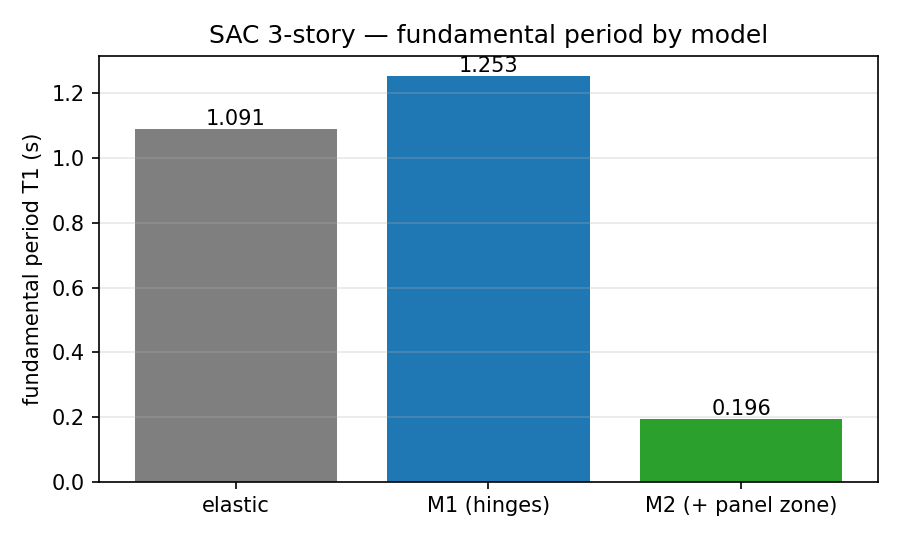
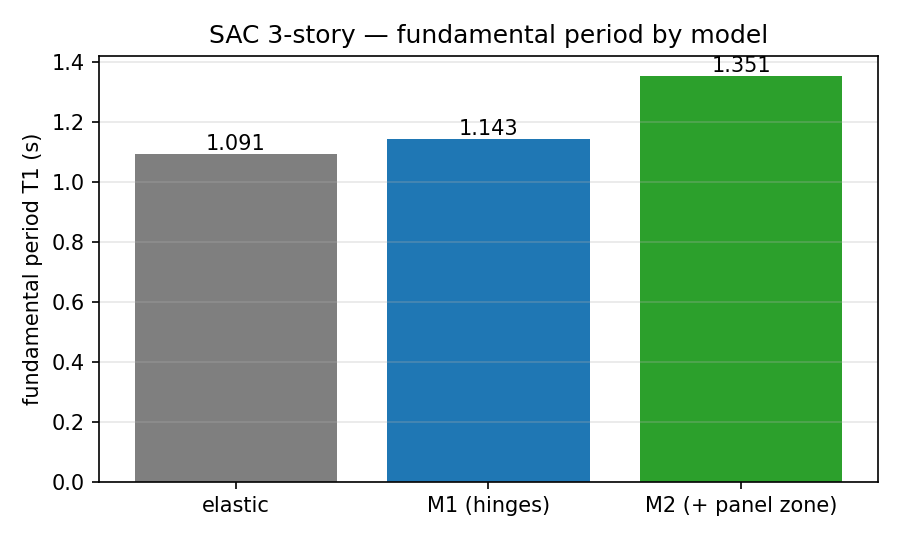
fix(opensees): resolve panel-zone + hinge equalDOF chain degeneracy
The Krawinkler & Gupta panel zone and the lumped hinge each tie their
coincident nodes with equalDOF; at a beam-column joint the hinge tied its node
to the beam's *_pz node, which was itself a slave of the column — a chained
MPC that the Transformation handler mis-resolved, locking the frame's sway DOFs
(M2 T1 ≈ 0.20 s instead of ~1.3 s).

Tie the hinge node directly to the column node (star topology: equalDOF(col,
hinge, 1,3) + out-of-plane fix), keeping the panel-zone spring and the hinge in
series.  M2 now softens to T1 ≈ 1.35 s.

Add test_sac3_m2_panel_zone_modal_period (regression guard), extend the
synthetic NLTHA to M2, and update the benchmark doc.

diff --git a/tests/test_benchmark_sac3_nltha.py b/tests/test_benchmark_sac3_nltha.py
@@ -79,22 +79,44 @@ def test_sac3_elastic_nltha_la21(resolve_ground_motion_record):
 
 
 def test_sac3_nonlinear_nltha_synthetic():
-    """The nonlinear SAC frame (bilinear hinges) converges under a synthetic
-    pulse with a finite, positive peak (always-on)."""
+    """The nonlinear SAC frame — M1 (bilinear hinges) and M2 (hinges + panel
+    zone) — converges under a synthetic pulse with a finite, positive peak
+    (always-on)."""
+    from openseespy.opensees import wipe
+
+    dt, n = 0.005, 200
+    t = np.arange(n) * dt
+    accel = np.zeros(n)
+    accel[:40] = 2.0 * np.sin(2.0 * math.pi * 1.0 * t[:40])
+
+    for panel_zone in (False, True):
+        wipe()
+        try:
+            b = build_builder(panel_zone=panel_zone)
+            res = b.run_transient_analysis(accel, dt, direction="X", damping_ratio=0.05)
+            assert res["converged_steps"] > 0
+            assert res["peak_displacement"] > 0.0
+            assert np.isfinite(res["peak_displacement"])
+        finally:
+            wipe()
+
+
+def test_sac3_m2_panel_zone_modal_period():
+    """M2 (bilinear hinges + Krawinkler & Gupta panel zone) has a sane
+    fundamental period — regression guard for the panel-zone + hinge equalDOF
+    degeneracy.
+
+    The combination once produced an over-stiff T1 ≈ 0.20 s (the sway modes were
+    locked by a chained equalDOF through the ``*_pz`` beam node).  The fixed
+    model softens to T1 ≈ 1.35 s (vs 1.09 s elastic, 1.14 s M1 hinge-only).
+    """
     from openseespy.opensees import wipe
 
     wipe()
     try:
-        b = build_builder(panel_zone=False)
-        dt = 0.005
-        n = 200
-        t = np.arange(n) * dt
-        accel = np.zeros(n)
-        accel[:40] = 2.0 * np.sin(2.0 * math.pi * 1.0 * t[:40])
-        res = b.run_transient_analysis(accel, dt, direction="X", damping_ratio=0.05)
-        assert res["converged_steps"] > 0
-        assert res["peak_displacement"] > 0.0
-        assert np.isfinite(res["peak_displacement"])
+        b = build_builder(panel_zone=True)
+        modal = b.run_modal_analysis(num_modes=1, print_results=False)
+        assert 1.2 < float(modal["periods"][0]) < 1.5
     finally:
         wipe()
 
@@ -109,12 +131,9 @@ def test_sac3_nonlinear_nltha_la21(resolve_ground_motion_record):
     test is therefore a smoke anchor only: it checks that both the M1 (hinges)
     and M2 (hinges + panel zone) models converge and return a finite peak.
 
-    The M2 (panel-zone) run is a smoke check only: the Krawinkler & Gupta panel
-    zone combined with the bilinear hinge in the full 3-story frame currently
-    produces a degenerate (over-stiff) modal response, a known limitation.  The
-    panel-zone softening is verified independently in
-    ``test_analysis_csm.py::TestPanelZone`` and by the elastic-model period
-    shift (1.09 → 1.31 s).
+    The M2 (panel-zone) run is a smoke check here because LA21 is not the record
+    for which Ohtori's band applies; the panel-zone + hinge modal response is
+    verified separately by ``test_sac3_m2_panel_zone_modal_period``.
     """
     from openseespy.opensees import wipe
 

diff --git a/src/fea_toolkit/opensees/_elements.py b/src/fea_toolkit/opensees/_elements.py
@@ -796,6 +796,15 @@ class ElementMixin:
         elements = self.mesh_model.frame_elements
         assignments = self.mesh_model.frame_assignments
 
+        # Panel-zone beam node → column node reverse map.  When a beam end has
+        # been re-pointed to a coincident ``*_pz`` node, the hinge's translation
+        # tie must go to the *column* node (the panel zone's master), not to the
+        # ``*_pz`` node — otherwise the equalDOF chain (hinge → *_pz → column)
+        # leaves the hinge node mis-constrained and locks the frame's sway DOFs.
+        pz_beam_to_col = {
+            spec.beam_node_id: spec.column_node_id for spec in self.mesh_model.panel_zones.values()
+        }
+
         next_node_tag = max((nd.node_tag for nd in self.mesh_model.nodes.values()), default=0) + 1
         # Consider existing OpenSees element tags (shells, rigid links already
         # created) and reserved offset-rigid-link tags to avoid collisions.
@@ -888,9 +897,26 @@ class ElementMixin:
             ops.node(hinge_j_tag, nj.x, nj.y, nj.z)
             self._created_node_tags.update([hinge_i_tag, hinge_j_tag])
 
-            # Tie translation DOFs between structural and hinge nodes
-            ops.equalDOF(ni.node_tag, hinge_i_tag, 1, 2, 3)
-            ops.equalDOF(nj.node_tag, hinge_j_tag, 1, 2, 3)
+            # Tie translation DOFs between structural and hinge nodes.  At a
+            # panel-zone joint the beam end is a coincident ``*_pz`` node whose
+            # in-plane translations are already tied to (and out-of-plane DOFs
+            # fixed by) the column — so tie the hinge to the *column* node and
+            # fix its out-of-plane DOFs, keeping the hinge a direct slave of the
+            # column rather than a slave-of-a-slave (which locks the sway modes).
+            col_i_id = pz_beam_to_col.get(ni.node_id)
+            col_j_id = pz_beam_to_col.get(nj.node_id)
+            if col_i_id is not None:
+                col_i = self.mesh_model.nodes[col_i_id]
+                ops.equalDOF(col_i.node_tag, hinge_i_tag, 1, 3)
+                ops.fix(hinge_i_tag, 0, 1, 0, 1, 0, 1)
+            else:
+                ops.equalDOF(ni.node_tag, hinge_i_tag, 1, 2, 3)
+            if col_j_id is not None:
+                col_j = self.mesh_model.nodes[col_j_id]
+                ops.equalDOF(col_j.node_tag, hinge_j_tag, 1, 3)
+                ops.fix(hinge_j_tag, 0, 1, 0, 1, 0, 1)
+            else:
+                ops.equalDOF(nj.node_tag, hinge_j_tag, 1, 2, 3)
 
             # --- Create Hysteretic hinge section ---
             mat = self.mesh_model.materials.get(sec.material)

diff --git a/docs/sac_nonlinear_benchmark.md b/docs/sac_nonlinear_benchmark.md
@@ -95,22 +95,25 @@ caveat warrant the wider band rather than a T4-tight ±5 %.  **M1 lands at
 ![Roof displacement time history (synthetic pulse)](assets/sac3_nltha_synthetic.png)
 
 The always-on figure above uses a synthetic 1 Hz pulse (the real LA21 history
-is generated only when the record mirror is populated); the modal comparison
-below documents the current M2 state.
+is generated only when the record mirror is populated).  The modal comparison
+below shows how each modelling choice shifts the fundamental period.
 
 ![Fundamental periods by model](assets/sac3_periods.png)
 
-## Known limitation — panel zone + hinge modal degeneracy
+## Panel zone + hinge composition
 
-The Krawinkler & Gupta panel zone **combined with the bilinear hinge in the
-full 3-story frame** produces a degenerate, over-stiff modal response
-(T1 ≈ 0.20 s vs the expected ~1.3–1.4 s; exact eigenvalue multiplicities).  Each
-ingredient is correct in isolation — the panel zone softens the elastic model
-and the subassemblage, and the bilinear hinge alone gives M1 ≈ 0.159 m — so the
-defect is in how the zero-length panel-zone spring and the zero-length-section
-hinge compose at a shared joint.  The M2 NLTHA run is therefore a smoke check
-only until this is resolved (see [`benchmark_register.md` §5](benchmark_register.md),
-Track 1).
+Combining the Krawinkler & Gupta panel zone with the bilinear hinge in the full
+3-story frame initially produced a degenerate, over-stiff modal response
+(T1 ≈ 0.20 s; the sway modes were locked).  The root cause was a **chained
+`equalDOF`** at the joint: the panel zone ties the beam's ``*_pz`` node to the
+column (`equalDOF(col, beam, 1, 3)`), and the lumped hinge then tied its hinge
+node to that ``*_pz`` node (`equalDOF(beam, hinge, 1, 2, 3)`), making the hinge
+a slave-of-a-slave that the `Transformation` constraint handler mis-resolved —
+locking the frame's lateral DOFs.  The fix ties the hinge node **directly to the
+column node** (star topology — `equalDOF(col, hinge, 1, 3)` + out-of-plane fix),
+leaving the panel-zone spring and the hinge in series.  M2 now has
+**T1 ≈ 1.35 s**, correctly softer than both the elastic model (1.09 s) and M1
+(1.14 s).  Regression-guarded by `test_sac3_m2_panel_zone_modal_period`.
 
 ## Loadable artifact
 
@@ -149,7 +152,8 @@ artifact (each only when its file is absent), writing into `docs/assets/`.
 ## Tests
 
 - `tests/test_benchmark_sac3_nltha.py` — elastic + nonlinear NLTHA (synthetic
-  pulse always-on; LA21 gated), M1 band assertion, M2 smoke check.
+  pulse always-on, M1 + M2; LA21 gated), M1 band assertion, and
+  `test_sac3_m2_panel_zone_modal_period` (M2 fundamental-period regression guard).
 - `tests/test_analysis_csm.py::TestBuilderHingeModel` — bilinear hinge unit
   tests (config defaults, cantilever yield).
 - `tests/test_analysis_csm.py::TestPanelZone` — panel-zone subassemblage.
